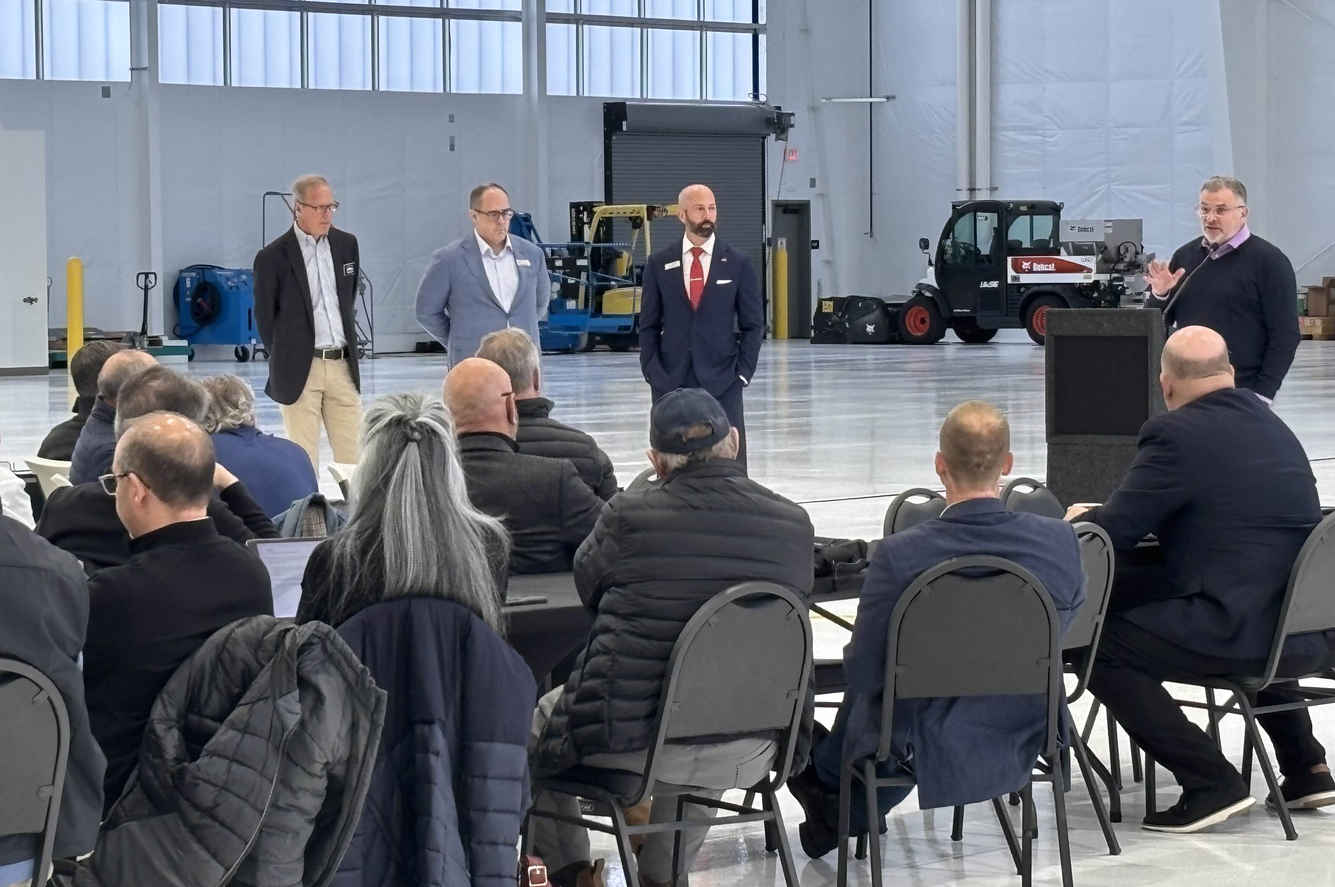
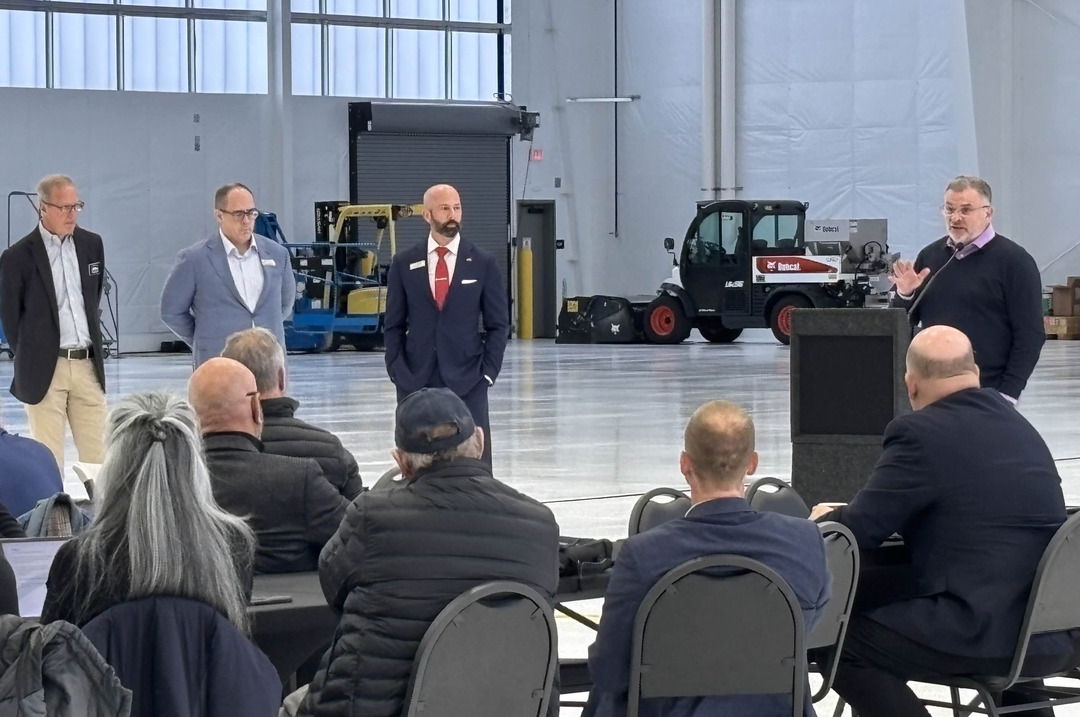
Add files via upload

diff --git a/index.html b/index.html
@@ -29,7 +29,7 @@
     <!-- Hero Section -->
     <section id="home" class="hero">
         <div class="hero-content">
-            <img src="OlympiaBuildingZoomed.jpg" alt="Olympia Building">
+            <img src="OlympiaBuilding.jpg" alt="Olympia Building">
         </div>
     </section>
 
@@ -77,7 +77,7 @@
                 </div>
                 <div class="service-card">
                     <div class="service-image">
-                        <img src="MikeAtSeattleTour.jpg" alt="Coalition Building Service">
+                        <img src="MikeSpeakingToGroup.jpg" alt="Coalition Building Service">
                     </div>
                     <h3>Relationship and Coalition Building</h3>
                     <p>Strategic development of stakeholder relationships and coalition partnerships to strengthen advocacy efforts</p>
@@ -103,7 +103,7 @@
                         <p>Representing employers and industry associations at the Washington State legislature on issues related to general business, transportation, aviation, trucking, supply chains, labor and employment law, agriculture, environment, land use, housing, telecom, and infrastructure.</p>
                     </div>
                     <div class="issue-areas-image">
-                        <img src="MikeSpeakingToGroup.jpg" alt="Issue Areas">
+                        <img src="MikeAtSeattleTour.jpg" alt="Issue Areas">
                     </div>
                 </div>
             </div>

diff --git a/style.css b/style.css
@@ -181,6 +181,7 @@ section h2::after {
 
  .background-image img {
      width: 100%;
+     max-width: 350px;
      height: auto;
      border-radius: 8px;
      box-shadow: 0 8px 20px rgba(0, 0, 0, 0.15);
@@ -192,6 +193,7 @@ section h2::after {
  .background-image {
      display: flex;
      justify-content: flex-end;
+     align-items: flex-start;
  }
  
  .background-image img:hover {
